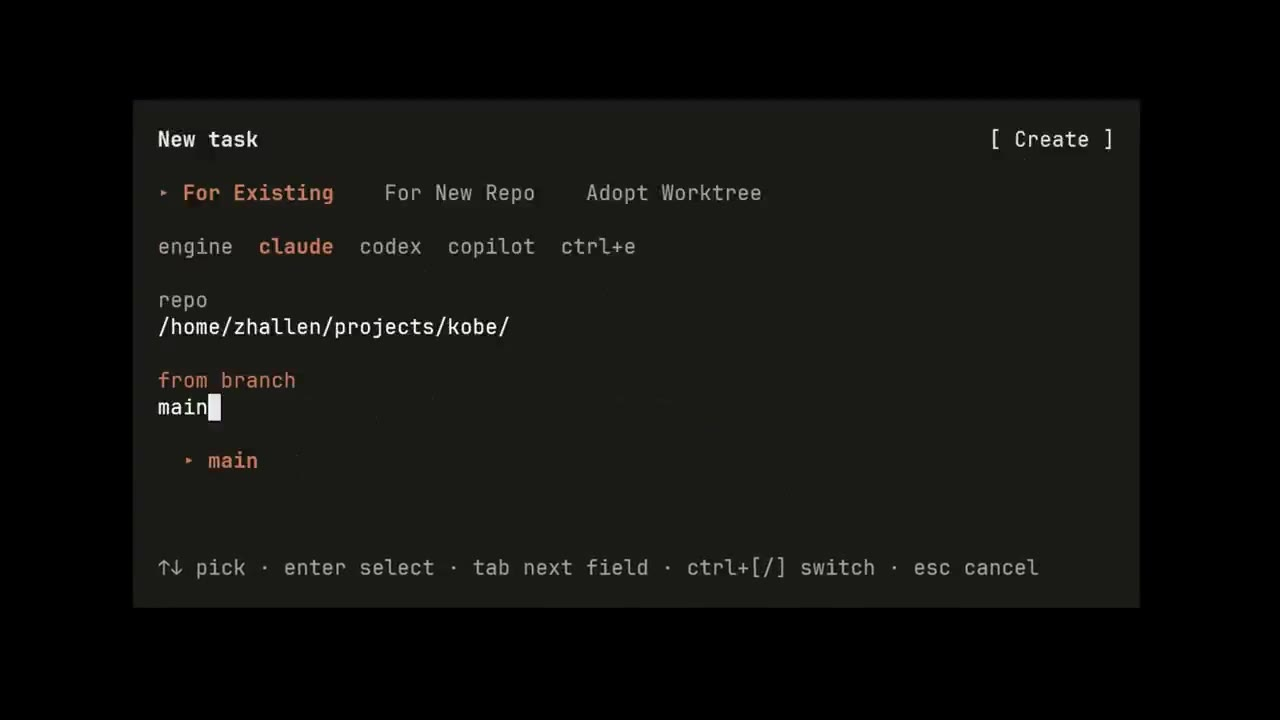
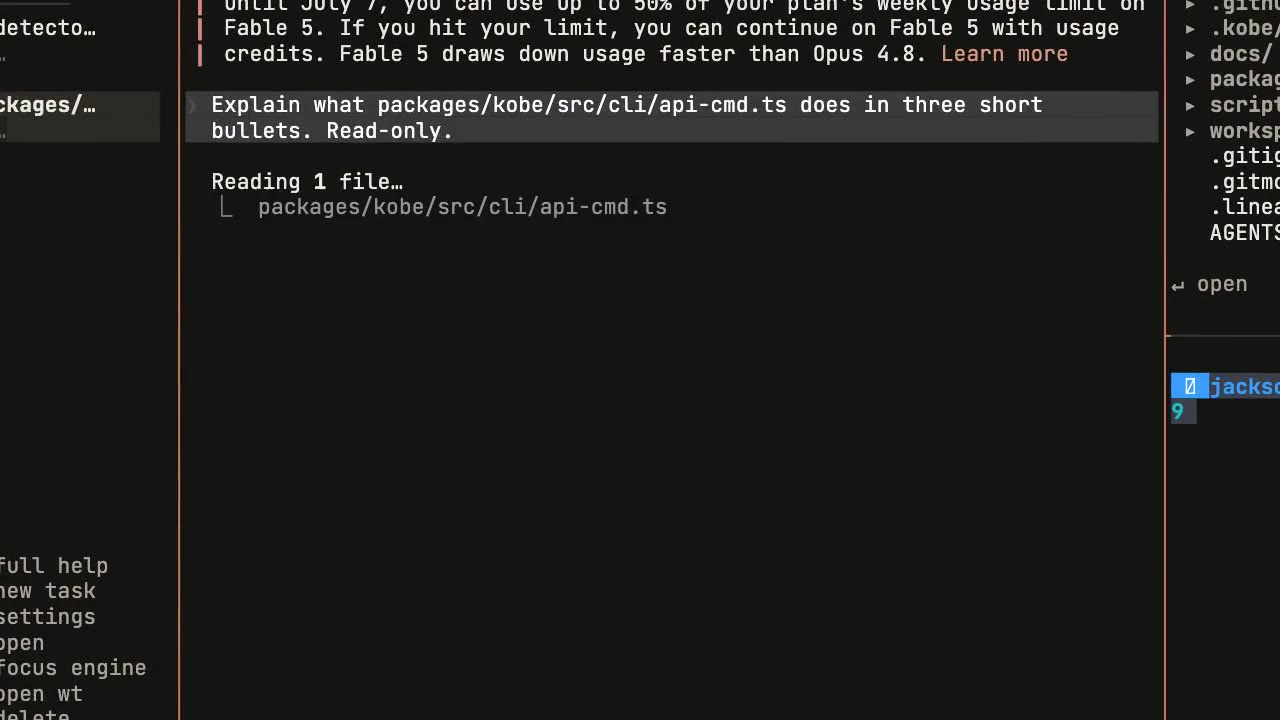
feat(branding): 4x landing cut shipped to kobe-landing; skill generalized
quicklook-replay takes a speed prop: content runs at speed while camera
easing stays in output time, each transition clamped to half the stage's
on-screen duration — an ffmpeg setpts speed-up would lurch every zoom. New
quicklook-replay-4x composition rendered, re-encoded (9.1MB -> 2.4MB,
faststart), replaced the landing page's quicklook.mp4 + poster, deployed to
kobe.sma1lboy.me and verified live. Skill rewritten as the brand-studio
pipeline: tutorials + pitch cuts, storyboard-table contract for content
understanding, speed-cut + delivery step, expanded troubleshooting.

diff --git a/packages/branding/src/quicklook/QuickLookReplay.tsx b/packages/branding/src/quicklook/QuickLookReplay.tsx
@@ -165,9 +165,13 @@ function frameStage(from: number, to: number, region: Region): Shot {
 const SHOTS: Shot[] = STAGES.map((s) => (s.region ? frameStage(s.from, s.to, s.region) : WIDE))
 
 const easeInOut = (p: number) => p * p * (3 - 2 * p)
-const TRANSITION = 1.2 // seconds to move between stage shots
+const TRANSITION = 1.2 // seconds of OUTPUT time to move between stage shots
 
-function cameraAt(t: number): Shot {
+// `t` is capture time; `speed` is the content playback rate. Camera easing
+// runs in OUTPUT time — a sped-up render must not speed up the zooms too —
+// and each move is clamped to half the stage's on-screen duration so short
+// (sped-up) stages still settle instead of drifting the whole time.
+function cameraAt(t: number, speed: number): Shot {
   let i = STAGES.length - 1
   for (let s = 0; s < STAGES.length; s++) {
     if (t >= STAGES[s].from && t < STAGES[s].to) {
@@ -177,10 +181,12 @@ function cameraAt(t: number): Shot {
   }
   const shot = SHOTS[i]
   if (i === 0) return shot
-  const into = t - STAGES[i].from
-  if (into >= TRANSITION) return shot
+  const stageOut = (STAGES[i].to - STAGES[i].from) / speed
+  const transition = Math.min(TRANSITION, stageOut * 0.5)
+  const into = (t - STAGES[i].from) / speed
+  if (into >= transition) return shot
   const prev = SHOTS[i - 1]
-  const p = easeInOut(into / TRANSITION)
+  const p = easeInOut(into / transition)
   return {
     scale: prev.scale + (shot.scale - prev.scale) * p,
     cx: prev.cx + (shot.cx - prev.cx) * p,
@@ -188,10 +194,10 @@ function cameraAt(t: number): Shot {
   }
 }
 
-export const QuickLookReplay: React.FC = () => {
+export const QuickLookReplay: React.FC<{ speed?: number }> = ({ speed = 1 }) => {
   const frame = useCurrentFrame()
   const { fps } = useVideoConfig()
-  const t = frame / fps
+  const t = (frame / fps) * speed
 
   const snapshot = frameAt(t)
   // Each capture-pane line is self-contained (leading unstyled cells mean
@@ -199,7 +205,7 @@ export const QuickLookReplay: React.FC = () => {
   // bg color onto the next line's leading spaces (black band left of dialogs).
   const lines = snapshot.lines.map((line) => parseAnsiLine(line).spans)
 
-  const cam = cameraAt(t)
+  const cam = cameraAt(t, speed)
   // Center the shot's target point, clamped so the viewport never leaves the
   // content — a target near an edge sticks to that edge instead of cropping.
   const tx = clamp(640 - cam.cx * cam.scale, 1280 * (1 - cam.scale), 0)

diff --git a/packages/branding/src/Root.tsx b/packages/branding/src/Root.tsx
@@ -21,6 +21,16 @@ export const RemotionRoot: React.FC = () => {
         width={1280}
         height={720}
       />
+      {/* Landing-page cut: content at 4x, camera easing still in output time. */}
+      <Composition
+        id="quicklook-replay-4x"
+        component={QuickLookReplay}
+        defaultProps={{ speed: 4 }}
+        durationInFrames={Math.round(((quicklookCapture.frames[quicklookCapture.frames.length - 1].t + 4) / 4) * 30)}
+        fps={30}
+        width={1280}
+        height={720}
+      />
     </>
   )
 }

diff --git a/.claude/skills/remotion-ref-replay/SKILL.md b/.claude/skills/remotion-ref-replay/SKILL.md
@@ -1,6 +1,6 @@
 ---
 name: remotion-ref-replay
-description: Reproduce a reference screen-recording (product demo, feature walkthrough, marketing clip) as a Remotion composition driven by a real, scripted app session — so the video re-renders itself when the UI changes instead of being re-recorded by hand. Use when the user has a reference video and wants "the same video but on the current UI", "redo/replace/re-render a demo video", "turn this recording into Remotion", "capture a TUI/app demo", or is building any packages/branding replay composition. Covers reference-video analysis, the capture-script beat model, the stage-camera algorithm + weights, effect boundaries, and troubleshooting. See the quicklook-replay worked example for a concrete implementation.
+description: Brand-studio video pipeline — turn a reference screen-recording (product demo, tutorial, pitch/marketing clip) into a Remotion composition driven by a real, scripted app session, so the video re-renders itself when the UI changes instead of being re-recorded by hand. Use when the user has a reference video and wants "the same video but on the current UI", "redo/replace/re-render a demo video", "turn this recording into Remotion", "capture a TUI/app demo", needs a tutorial or pitch video that stays current, or is building any packages/branding replay composition. Covers content understanding (the storyboard), the capture-script beat model, the stage-camera algorithm + weights, speed cuts (camera easing in output time), delivery (compress/poster/deploy), effect boundaries, and troubleshooting. See the quicklook-replay worked example for a concrete implementation.
 metadata:
   internal: true
 ---
@@ -13,6 +13,18 @@ deleting — the subject changes with every UI iteration, and re-shooting by han
 is the pain. Instead: drive the **real** app with a scripted session, capture
 frames, and render them with Remotion + a camera. UI iterates → re-run capture
 → re-render. No manual recording, ever.
+
+This is the brand-studio production line, not a one-off. Two product shapes
+ride the same pipeline:
+- **Tutorials** — step-accurate walkthroughs; correctness of every on-screen
+  step matters, usually rendered at 1x.
+- **Pitch/marketing cuts** — the same capture rendered as a speed cut (see
+  Step 3) with tighter camera work; energy matters, individual keystrokes don't.
+
+What the pipeline guarantees: **stability and normalization**. The output is
+deterministic given (frames.json, STAGES, speed) — no shaky hand, no missed
+click, no "the recording person's env leaked in" (given a clean profile). An
+asset regenerates with two commands when the product changes.
 
 This skill is the **method** and the **hard-won pitfalls**. It is engine- and
 subject-agnostic: the first implementation replays a terminal UI (kobe TUI, via
@@ -39,21 +51,31 @@ bun x remotion render src/index.ts <id> out/<id>.mp4   # 3. render
 
 Studio hot-reloads the camera/composition; `frames.json` only changes on re-capture.
 
-## Step 0 — analyze the reference video FIRST (never skip)
+## Step 0 — content understanding (the single highest-leverage step)
 
 Both the storyboard and the camera derive from what the reference actually
 shows. The dominant failure mode is a *superficial* read that ships a video
-doing the wrong thing — we paid for this more than once.
+doing the wrong thing — we paid for this more than once. In the worked example
+most of round-one's wall-clock went into re-deriving stages and steps that a
+proper first pass should have produced — budget the time HERE, not in rework.
 
 ```bash
 # 1 frame/sec is the right granularity — 1/2s misses beats; denser wastes context
 ffmpeg -y -i <ref>.mp4 -vf fps=1 <dir>/s%02d.png
 ```
 
-`Read` the stills in order and write down the **storyboard**: the ordered beats
-(what the user does, what the screen shows, roughly when) and, for each beat,
-*which pane/region is the subject*. This storyboard IS the input to both the
-capture script and the camera stages — get it right before writing either.
+`Read` the stills in order and write down the **storyboard table** — it is the
+single shared source that the capture beats, the camera `STAGES`, and any speed
+cut are all projections of. A complete row has:
+
+| beat | ~when | user action (exact keys/inputs) | screen shows | subject pane/region | camera intent (wide/zoom) |
+|---|---|---|---|---|---|
+
+Grade your own pass: if a row's "user action" isn't concrete enough to type
+into the capture script verbatim, or "subject region" isn't concrete enough to
+become a `region` rect, the understanding pass isn't done. Keep the table in
+the composition's directory and update it when the reference or the beats
+change — capture, camera, and cut must never drift from it separately.
 
 Watch specifically for beats a shallow read collapses:
 - A real **modal/page/dialog** vs. a shortcut that produces the same end-state.
@@ -146,6 +168,32 @@ A target near an edge sticks to that edge instead of cropping.
 4. Edge glyph stretching the box → the `0.05 / 0.95` column quantiles.
 5. Move feels abrupt → `TRANSITION` seconds / the easing.
 
+## Step 3 — speed cuts and delivery
+
+A marketing/landing cut is usually the same capture at 2–4x. **Never speed up
+the rendered file with ffmpeg `setpts`** — that compresses the camera easing
+too (a 1.2s zoom becomes 0.3s and every move turns into a lurch). Instead the
+composition takes a `speed` prop and decouples the two clocks:
+
+- **Content clock**: `t_capture = (frame / fps) * speed` — frames, stage
+  boundaries, everything scripted runs sped up.
+- **Camera clock**: easing progress runs in OUTPUT seconds:
+  `into = (t_capture - stage.from) / speed`, eased over the same ~1.2s a 1x
+  render uses — zooms feel identical at any speed.
+- **Clamp each transition to ~half the stage's on-screen duration**
+  (`min(TRANSITION, stageOutputLen * 0.5)`) so short sped-up stages still
+  *settle* on their subject instead of drifting through the whole stage.
+
+Register the cut as its own composition (`<id>-4x`, `defaultProps={{speed: 4}}`,
+duration = capture length / speed) so studio previews both.
+
+Delivery checklist (a raw Remotion render is not a web asset):
+- Re-encode: `ffmpeg -i in.mp4 -c:v libx264 -crf 27 -preset slow -movflags
+  +faststart -an out.mp4` — took the worked example 9.1MB → 2.4MB.
+- Regenerate the poster frame from the NEW render (`-ss <t> -frames:v 1`) —
+  a stale poster shows the old UI for exactly the flash that matters.
+- Verify after deploy: `curl -sI <url>` content-length matches the local file.
+
 ## Effect boundaries (what NOT to do)
 
 - **No generative video (Seedance/i2v/etc.) for the UI surface** — it
@@ -186,6 +234,9 @@ A target near an edge sticks to that edge instead of cropping.
 | Pane borders drift out of column | fallback glyphs (icons/braille) have a different advance | pin each span to its grid column (absolute left = col × cellW) |
 | Dialog walk lands on the wrong tab/field | blind timed keys vs. a UI whose bindings changed | read the dialog's key-binding source; prefer position-independent chords (ctrl+e) + waitFor the dialog |
 | Typing lands in a trust/confirm prompt | interstitial shares the composer's marker glyph | after waitFor, re-read the screen and dismiss the prompt first |
+| Zooms lurch in a sped-up render | ffmpeg setpts sped up the camera too | `speed` prop: content clock × speed, camera easing in output time |
+| Camera never settles in short stages | transition longer than the sped-up stage | clamp transition to ~0.5 × stage output duration |
+| Web asset heavy / starts slowly | raw Remotion render shipped as-is | re-encode crf 27 + faststart; regenerate the poster |
 | Black bars / frame not filled | fallback font's advance ≠ cell width | bundle the app's font (e.g. @remotion/google-fonts) |
 | Camera frames chrome above the input while typing | input row outside the stage region | dedicated region for the composer rows (it may drift — widen) |
 